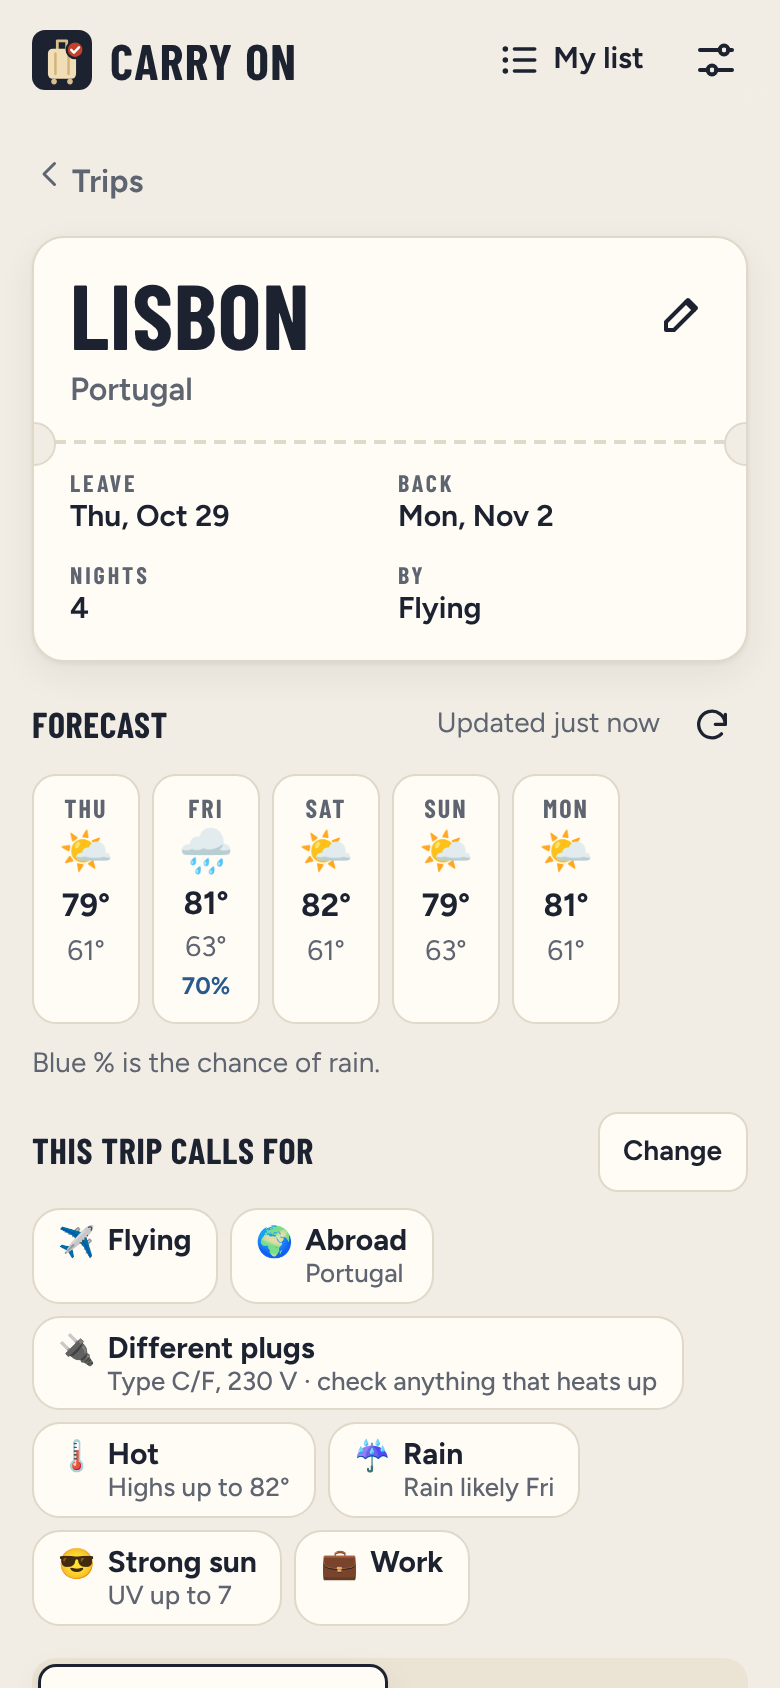
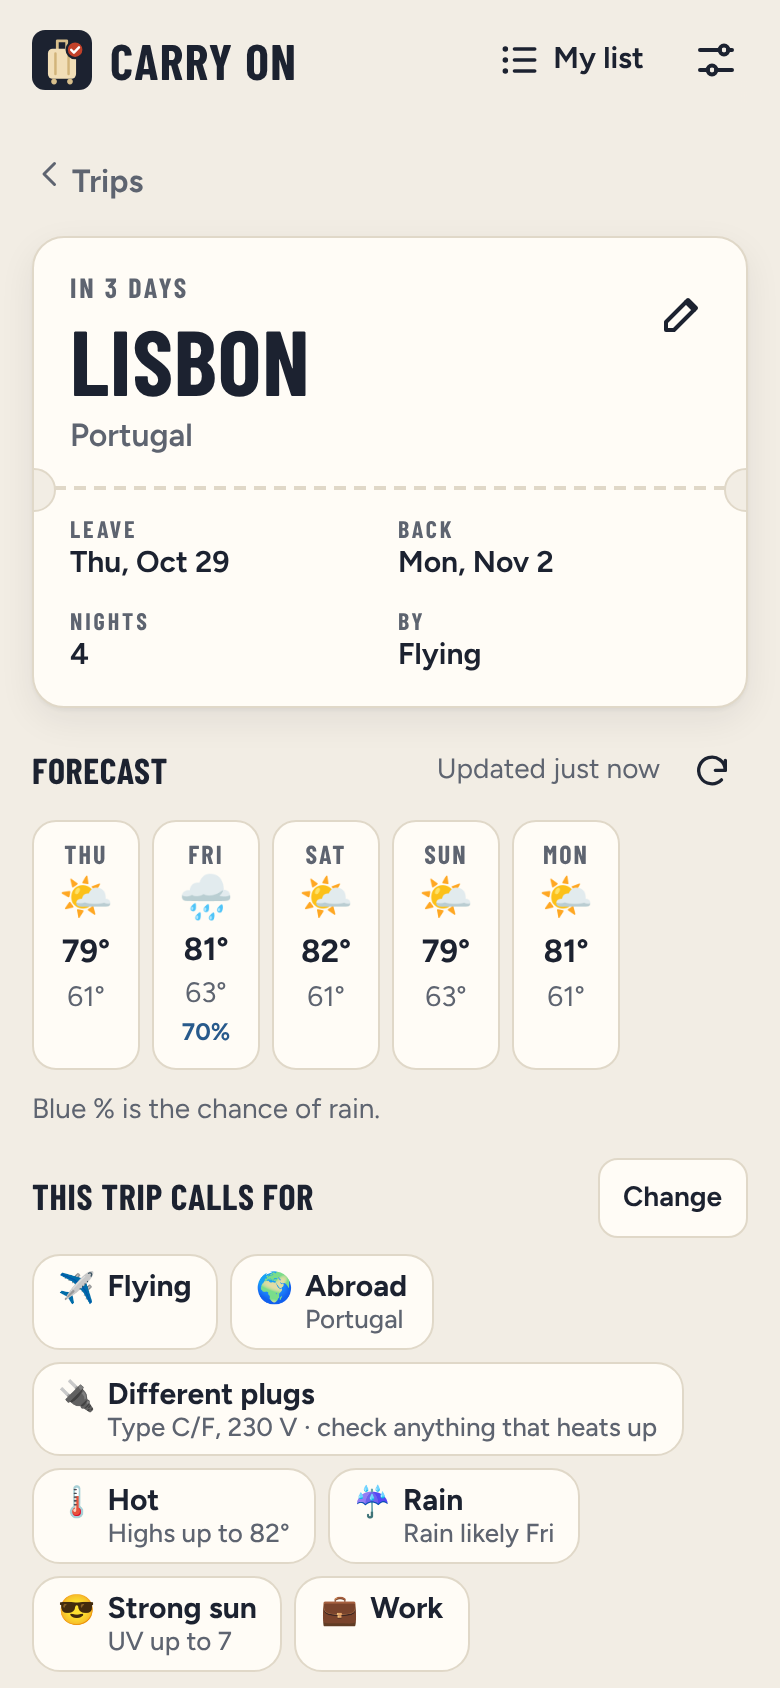
The boarding pass says when
Every luggage tag says when its trip is ("In 3 days", "Now · back Wed"), but
the boarding pass it opens had only the dates, so the countdown just read was
gone, and a trip that was over had nothing to say so. The pass now has the
same line above its name, red while the trip is under way, and "Past trip"
once it's over. A trip under way that's back more than six days on says the
date it's back ("Now · back Nov 5") rather than a weekday that could be
either of two. The README's trip picture and the link preview show the new
line.

Claude-Session: https://claude.ai/code/session_01UGkJaedPXbyAJUNALxtDdS

diff --git a/js/app.js b/js/app.js
@@ -227,11 +227,19 @@ const theBag = b => (/\b(bag|case|pack|backpack|suitcase|pouch|kit|box|tote|purs
 // luggage tag counts the same way.
 const tripMode = t => store.mode(t.id) || (today() >= t.end ? 'back' : 'go');
 
+// When a trip is, in a few words, on its luggage tag and its boarding pass: "In 3 days", "Tomorrow", "Now · back
+// Wed", "Past trip". Back more than six days on, it's a date, as a weekday alone could be either of two.
+function whenText(t) {
+  const t0 = today();
+  if (t.end < t0) return 'Past trip';
+  if (t.start <= t0) return `Now · back ${t.end === t0 ? 'today' : D.num(t.end) - D.num(t0) > 6 ? D.short(t.end) : D.weekday(t.end)}`;
+  return t.start === D.add(t0, 1) ? 'Tomorrow' : `In ${plural(D.num(t.start) - D.num(t0), 'day')}`;
+}
+
 function tagCard(t) {
   const t0 = today(), n = D.nights(t.start, t.end);
   const mode = tripMode(t), p = R.plan(doc(), t, mode), c = p.cond;
   const now = t.start <= t0;
-  const when = now ? `Now · back ${t.end === t0 ? 'today' : D.weekday(t.end)}` : t.start === D.add(t0, 1) ? 'Tomorrow' : `In ${plural(D.num(t.start) - D.num(t0), 'day')}`;
   const w = c.weather, pl = t.place;
   // Under the name: the place and, abroad, its country. A trip named after its place has just the country, or at
   // home the state or region, as the pass has.
@@ -239,7 +247,7 @@ function tagCard(t) {
   const where = (t.name ? [pl?.name, country] : [country || (pl?.admin !== pl?.name ? pl?.admin : '')]).filter(Boolean).join(', ');
   return h('a', { class: 'tag-card' + (now ? ' now' : ''), href: `#/trip/${t.id}` },
     h('span', { class: 'hole', 'aria-hidden': 'true' }),
-    h('span', { class: 'when' }, when),
+    h('span', { class: 'when' }, whenText(t)),
     h('h2', {}, title(t)),
     where ? h('span', { class: 'where' }, where) : null,
     h('span', { class: 'dates' }, `${D.span(t.start, t.end, t0.slice(0, 4))} · ${n ? plural(n, 'night') : 'day trip'} · ${R.CONDITIONS.find(x => x.k === t.travel).icon}`),
@@ -399,6 +407,7 @@ function tripView(t) {
     h('section', { class: 'pass' },
       h('div', { class: 'pass-top' },
         h('div', {},
+          h('p', { class: 'when' + (t.start <= today() && today() <= t.end ? ' now' : '') }, whenText(t)),
           h('h1', {}, title(t)),
           h('p', { class: 'sub' }, t.place ? (t.name ? W.placeLabel(t.place) : W.placeLabel(t.place).split(', ').slice(1).join(', ')) || '\u00a0' : 'No place set')),
         h('a', { class: 'icon-btn', href: `#/edit/${t.id}`, 'aria-label': 'Edit this trip', title: 'Edit this trip', html: ICONS.edit })),

diff --git a/css/app.css b/css/app.css
@@ -258,6 +258,8 @@ ul.chips .chip small { font-weight: 500; color: var(--muted); font-size: 13px; }
 .pass { position: relative; background: var(--paper); border: 1px solid var(--line); border-radius: 16px; box-shadow: var(--shadow); margin-bottom: 14px; overflow: hidden; }
 .pass-top { display: flex; align-items: flex-start; gap: 8px; padding: 16px 10px 14px 18px; border-bottom: 2px dashed var(--line); }
 .pass-top > div { flex: 1; min-width: 0; }
+.pass .when { margin: 0 0 6px; font: 700 14px var(--display); text-transform: uppercase; letter-spacing: .1em; color: var(--muted); }
+.pass .when.now { color: var(--accent-text); }
 .pass h1 { font-size: 46px; line-height: .95; overflow-wrap: anywhere; }
 .pass .sub { margin: 4px 0 0; color: var(--muted); font-weight: 600; }
 /* The notches either side of the tear line. */

diff --git a/README.md b/README.md
@@ -7,7 +7,7 @@
 <p align="center">
   <img src="docs/phone-trips.png" alt="The trips screen: luggage tags for Lisbon in 3 days, 7 of 50 packed, and Reykjavík in 46 days, with the temperatures and rain for each" width="250">
   &nbsp;
-  <img src="docs/phone-trip.png" alt="A trip to Lisbon: the dates and nights on a boarding pass, five days of forecast with rain on Friday, and what the trip calls for: flying, abroad, different plugs, hot, rain, strong sun and work" width="250">
+  <img src="docs/phone-trip.png" alt="A trip to Lisbon in 3 days: the dates and nights on a boarding pass, five days of forecast with rain on Friday, and what the trip calls for: flying, abroad, different plugs, hot, rain, strong sun and work" width="250">
   &nbsp;
   <img src="docs/phone-bags.png" alt="Packing the Electronics bag: phone charger and headphones ticked, and a plug adapter on the list because Portugal's sockets are type C and F at 230 volts" width="250">
 </p>
